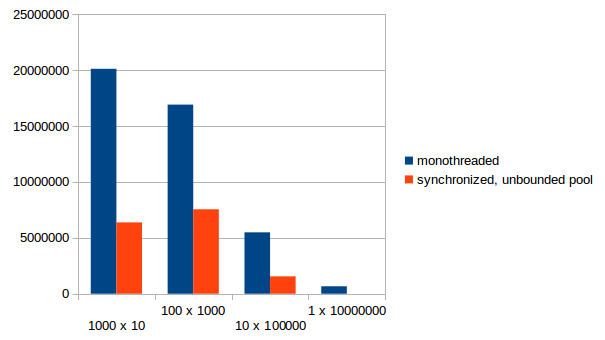
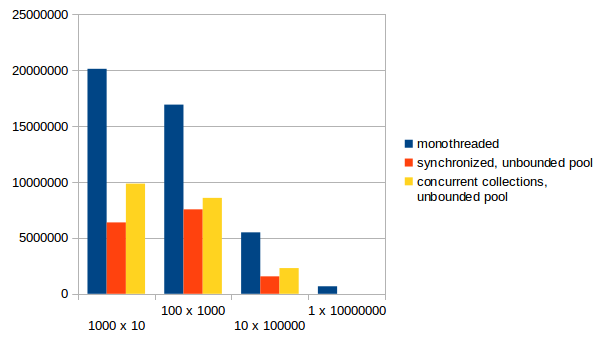
Replace synchronized methods by a Concurrent Hash Map
- increase the timeout in the bench
- remove synchronized, add a ConcurrentHashMap
- rerun the bench and update the graphs

diff --git a/src/main/java/net/bourgau/philippe/concurrency/kata/InProcessChatRoom.java b/src/main/java/net/bourgau/philippe/concurrency/kata/InProcessChatRoom.java
@@ -2,22 +2,23 @@ package net.bourgau.philippe.concurrency.kata;
 
 import java.util.HashMap;
 import java.util.Map;
+import java.util.concurrent.ConcurrentHashMap;
 
 public class InProcessChatRoom implements ChatRoom {
 
-    private final Map<Output, String> clients = new HashMap<>();
+    private final Map<Output, String> clients = new ConcurrentHashMap<>();
 
     InProcessChatRoom() {
     }
 
     @Override
-    public synchronized void enter(Output client, String pseudo) {
+    public void enter(Output client, String pseudo) {
         clients.put(client, pseudo);
         broadcast(Message.welcome(pseudo));
     }
 
     @Override
-    public synchronized void broadcast(Output client, String message) {
+    public void broadcast(Output client, String message) {
         broadcast(Message.signed(clients.get(client), message));
     }
 
@@ -36,7 +37,7 @@ public class InProcessChatRoom implements ChatRoom {
     }
 
     @Override
-    public synchronized void leave(Output client) {
+    public void leave(Output client) {
         String pseudo = clients.get(client);
         clients.remove(client);
         broadcast(Message.exit(pseudo));

diff --git a/src/test/java/net/bourgau/philippe/concurrency/kata/BenchmarkTest.java b/src/test/java/net/bourgau/philippe/concurrency/kata/BenchmarkTest.java
@@ -51,7 +51,7 @@ public class BenchmarkTest {
         }
     }
 
-    @Test(timeout = 15000)
+    @Test(timeout = 30000)
     public void benchmark() throws Exception {
         long startMillis = System.currentTimeMillis();
 
@@ -81,6 +81,6 @@ public class BenchmarkTest {
     }
 
     private void shutdown() throws InterruptedException {
-        chatRoom.shutdownAndAwaitTermination(7, TimeUnit.SECONDS);
+        chatRoom.shutdownAndAwaitTermination(15, TimeUnit.SECONDS);
     }
 }
